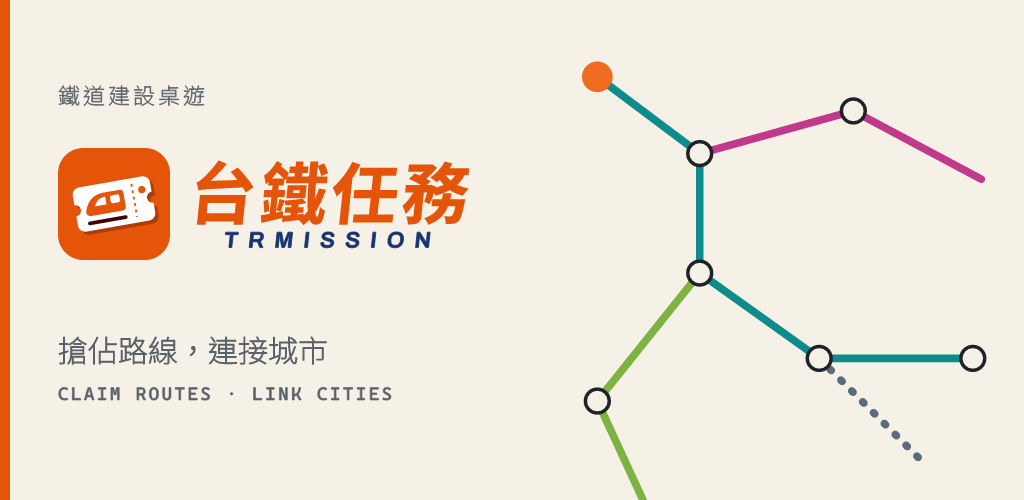
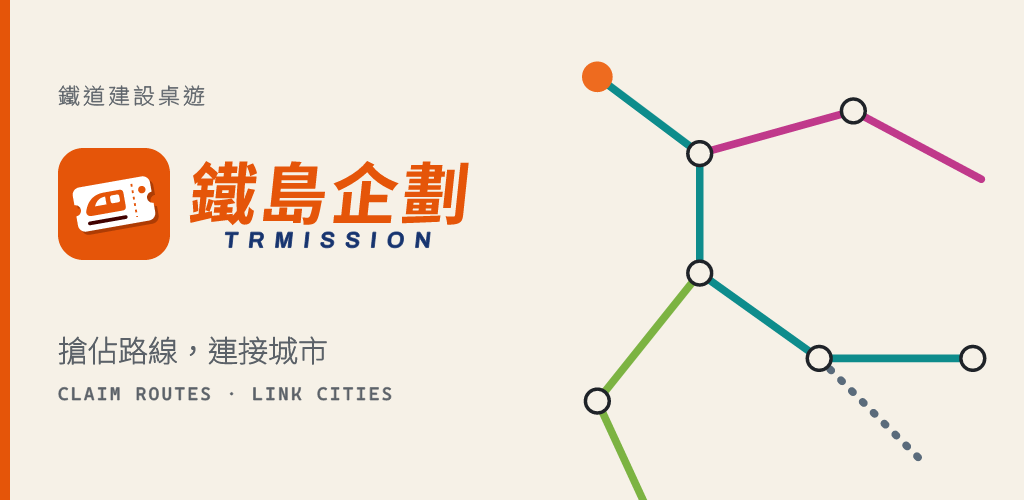
chore: rebrand the Chinese name to 鐵島企劃
台鐵任務 → 鐵島企劃 everywhere the name is the product: UI strings and SEO titles
on both clients, the BrandBanner/chrome wordmark, push titles, the OG card and
site title, the OpenAPI description, the App Store / Play listings in both
locales and the app.config device labels that must match them, plus the
rolling-stock art sheet's filename. Both marks are four glyphs, so the lockup
tracking and the OG card's width arithmetic are unchanged; the Play feature
graphic is regenerated from the same renderer.

Deliberately not renamed:

- the two legal disclaimers naming the real 臺灣鐵路公司（台鐵） — those are
  statements about a third party, not the brand;
- the dated plans and specs under docs/plans and docs/superpowers, which record
  what was decided at the time.

The tutorial's 台鐵的路線分成三種 and the iOS 台鐵 ASO keyword drop the old short
form as well: the point of the new name is not to lean on that mark.

Changed region(s): [[0.1875, 0.3, 0.4688, 0.45]]

diff --git a/apps/server/src/og/card-svg.ts b/apps/server/src/og/card-svg.ts
@@ -27,7 +27,7 @@ export const CARD_H = 630;
  * upstream file's own default, not something this file controls. `NotoSansTC-Banner750.ttf`
  * is a static instantiation of the same Noto Sans TC file pinned to wght=750 (via
  * `fonttools varLib.instancer --static`, same OFL licence — see LICENSES), used only for the
- * BrandBanner's 台鐵任務 line so it actually matches the live component's real 750-weight
+ * BrandBanner's 鐵島企劃 line so it actually matches the live component's real 750-weight
  * display treatment instead of silently rendering Thin. Archivo needed no such instance: its
  * baked default already matches the component's 600-weight `TRMISSION` line.
  */
@@ -36,7 +36,7 @@ export const OG_FONT_FILES: string[] = [
   join(FONTS_DIR, 'NotoSansTC-Variable.ttf'), // F_SANS — CJK + Latin display/body
   join(FONTS_DIR, 'CascadiaCode-Regular.ttf'), // F_MONO — labels, codes, numbers
   join(FONTS_DIR, 'Archivo-Variable.ttf'), // F_LATIN — the BrandBanner TRMISSION wordmark
-  join(FONTS_DIR, 'NotoSansTC-Banner750.ttf'), // F_SANS_BANNER — the BrandBanner 台鐵任務 line
+  join(FONTS_DIR, 'NotoSansTC-Banner750.ttf'), // F_SANS_BANNER — the BrandBanner 鐵島企劃 line
 ];
 
 // Brand tokens mirrored from apps/web/src/styles/tokens.css (light theme — social
@@ -52,7 +52,7 @@ const LINE = '#d9d0be';
 const READY_GREEN = '#1f8a5b';
 const AVATAR_HUMAN = '#8b8377';
 const AVATAR_BOT = '#5b6168';
-/** apps/web/src/components/BrandBanner.tsx wordmark colours — the 台鐵任務 line stays this
+/** apps/web/src/components/BrandBanner.tsx wordmark colours — the 鐵島企劃 line stays this
  *  orange (icon.svg's own accent) and TRMISSION stays brand navy, independent of the card's
  *  own ember accent. */
 const BANNER_ORANGE = '#e55509';
@@ -73,7 +73,7 @@ const F_SANS = "'Noto Sans TC',sans-serif";
 const F_MONO = "'Cascadia Code',monospace";
 const F_LATIN = "'Archivo',sans-serif";
 /** True 750-weight static instance — see `OG_FONT_FILES`'s comment for why this exists
- *  separately from `F_SANS` (only the BrandBanner's 台鐵任務 line needs real bold; every other
+ *  separately from `F_SANS` (only the BrandBanner's 鐵島企劃 line needs real bold; every other
  *  card text stays on the Thin-by-default `F_SANS` plus its faux-bold stroke, unchanged). */
 const F_SANS_BANNER = "'Noto Sans TC Banner',sans-serif";
 
@@ -210,7 +210,7 @@ interface Banner {
 }
 
 /**
- * The BrandBanner lockup (apps/web's icon.svg + stacked 台鐵任務／TRMISSION wordmark),
+ * The BrandBanner lockup (apps/web's icon.svg + stacked 鐵島企劃／TRMISSION wordmark),
  * reproduced as inline geometry: the CSS `skewX(-6deg)` on each line becomes an SVG
  * `skewX(-6)` transform, letter-spacing is carried over from the component's em values.
  * Shrinks (icon and both text lines scale together) until it fits `maxWidth`, so it never
@@ -236,7 +236,7 @@ function brandBanner(x: number, y: number, targetIconSize: number, maxWidth: num
     const zhSize = iconSize * (48 / 80);
     const enSize = iconSize * (16 / 80);
     const zhSpacing = zhSize * 0.056;
-    const zhWidth = estimateWidth('台鐵任務', zhSize) + zhSpacing * 3;
+    const zhWidth = estimateWidth('鐵島企劃', zhSize) + zhSpacing * 3;
     return { iconSize, gap, zhSize, enSize, zhSpacing, zhWidth, total: iconSize + gap + zhWidth };
   };
   let m = measure(targetIconSize);
@@ -260,7 +260,7 @@ function brandBanner(x: number, y: number, targetIconSize: number, maxWidth: num
   // keeps text()'s plain default treatment like every other piece of text on every other card.
   const markup =
     `<g transform="translate(${x} ${y}) scale(${m.iconSize / 120})">${ICON_MARK}</g>` +
-    `<g transform="translate(${textX} ${zhBaseline}) skewX(-6)">${text(0, 0, m.zhSize, BANNER_ORANGE, '台鐵任務', { spacing: m.zhSpacing, font: F_SANS_BANNER, boldStroke: 0 })}</g>` +
+    `<g transform="translate(${textX} ${zhBaseline}) skewX(-6)">${text(0, 0, m.zhSize, BANNER_ORANGE, '鐵島企劃', { spacing: m.zhSpacing, font: F_SANS_BANNER, boldStroke: 0 })}</g>` +
     `<g transform="translate(${zhCenterX} ${enBaseline}) skewX(-6)">${text(0, 0, m.enSize, BANNER_NAVY, 'TRMISSION', { anchor: 'middle', spacing: enSpacing, font: F_LATIN })}</g>`;
 
   return { width: m.iconSize + m.gap + m.zhWidth, height: m.iconSize, markup };

diff --git a/apps/web/index.html b/apps/web/index.html
@@ -6,7 +6,7 @@
     <link rel="icon" href="%BASE_URL%favicon.png" sizes="any" />
     <link rel="icon" href="%BASE_URL%icon.svg" type="image/svg+xml" />
     <link rel="apple-touch-icon" href="%BASE_URL%favicon.png" />
-    <title>台鐵任務 TRMission</title>
+    <title>鐵島企劃 TRMission</title>
     <!-- Static fallback meta. Recognized link-preview crawlers hitting /, /room/* or /replay/*
          are routed (by nginx in prod, a Vite dev-server plugin in dev) to the server's OG
          renderer instead, which serves a per-link title/description and a purpose-built card
@@ -20,8 +20,8 @@
       content="搶佔台灣鐵道路線 — 鋪設路線、連接城市、完成任務。A railway board game set in Taiwan: claim routes, link cities, complete missions."
     />
     <meta property="og:type" content="website" />
-    <meta property="og:site_name" content="台鐵任務 TRMission" />
-    <meta property="og:title" content="台鐵任務 TRMission" />
+    <meta property="og:site_name" content="鐵島企劃 TRMission" />
+    <meta property="og:title" content="鐵島企劃 TRMission" />
     <meta
       property="og:description"
       content="搶佔台灣鐵道路線 — 鋪設路線、連接城市、完成任務。A railway board game set in Taiwan: claim routes, link cities, complete missions."
@@ -31,12 +31,12 @@
     <meta property="og:image:height" content="630" />
     <meta
       property="og:image:alt"
-      content="台鐵任務 TRMission — 台灣鐵道桌遊分享卡片 / TRMission Taiwan railway board game preview card"
+      content="鐵島企劃 TRMission — 台灣鐵道桌遊分享卡片 / TRMission Taiwan railway board game preview card"
     />
     <meta property="og:locale" content="zh_TW" />
     <meta property="og:locale:alternate" content="en_US" />
     <meta name="twitter:card" content="summary_large_image" />
-    <meta name="twitter:title" content="台鐵任務 TRMission" />
+    <meta name="twitter:title" content="鐵島企劃 TRMission" />
     <meta
       name="twitter:description"
       content="搶佔台灣鐵道路線 — 鋪設路線、連接城市、完成任務。A railway board game set in Taiwan: claim routes, link cities, complete missions."
@@ -44,7 +44,7 @@
     <meta name="twitter:image" content="/api/v1/og/site.png" />
     <meta
       name="twitter:image:alt"
-      content="台鐵任務 TRMission — 台灣鐵道桌遊分享卡片 / TRMission Taiwan railway board game preview card"
+      content="鐵島企劃 TRMission — 台灣鐵道桌遊分享卡片 / TRMission Taiwan railway board game preview card"
     />
     <meta name="theme-color" media="(prefers-color-scheme: light)" content="#f6f1e7" />
     <meta name="theme-color" media="(prefers-color-scheme: dark)" content="#1a1c1f" />
@@ -66,9 +66,9 @@
   <body>
     <div id="root"></div>
     <noscript>
-      <h1>台鐵任務 TRMission</h1>
+      <h1>鐵島企劃 TRMission</h1>
       <p>
-        《台鐵任務》是一款免費的線上多人鐵道桌遊：收集車廂卡、佔領台灣城市之間的路線、完成任務卡。
+        《鐵島企劃》是一款免費的線上多人鐵道桌遊：收集車廂卡、佔領台灣城市之間的路線、完成任務卡。
         支援 2–5 人連線對戰、機器人陪練、觀戰與對局回放。需要啟用 JavaScript 才能遊玩。
       </p>
       <p>

diff --git a/apps/web/src/i18n/zh-Hant/seo.ts b/apps/web/src/i18n/zh-Hant/seo.ts
@@ -2,28 +2,28 @@
 // indexable public pages — everything else is noindex.
 export default {
   titles: {
-    home: '台鐵任務 TRMission — 台灣鐵道路線桌遊',
-    login: '登入 · 台鐵任務 TRMission',
-    tutorial: '新手教學 · 台鐵任務 TRMission',
-    history: '對局紀錄 · 台鐵任務 TRMission',
-    leaderboard: '排行榜 · 台鐵任務 TRMission',
-    replay: '對局重播 · 台鐵任務 TRMission',
-    room: '房間 {{code}} · 台鐵任務 TRMission',
-    game: '對局進行中 · 台鐵任務 TRMission',
-    maps: '自訂地圖 · 台鐵任務 TRMission',
-    mapEditor: '地圖編輯器 · 台鐵任務 TRMission',
-    support: '支援與說明 · 台鐵任務 TRMission',
-    privacy: '隱私權政策 · 台鐵任務 TRMission',
-    terms: '服務條款 · 台鐵任務 TRMission',
-    deleteAccount: '刪除帳號 · 台鐵任務 TRMission',
+    home: '鐵島企劃 TRMission — 台灣鐵道路線桌遊',
+    login: '登入 · 鐵島企劃 TRMission',
+    tutorial: '新手教學 · 鐵島企劃 TRMission',
+    history: '對局紀錄 · 鐵島企劃 TRMission',
+    leaderboard: '排行榜 · 鐵島企劃 TRMission',
+    replay: '對局重播 · 鐵島企劃 TRMission',
+    room: '房間 {{code}} · 鐵島企劃 TRMission',
+    game: '對局進行中 · 鐵島企劃 TRMission',
+    maps: '自訂地圖 · 鐵島企劃 TRMission',
+    mapEditor: '地圖編輯器 · 鐵島企劃 TRMission',
+    support: '支援與說明 · 鐵島企劃 TRMission',
+    privacy: '隱私權政策 · 鐵島企劃 TRMission',
+    terms: '服務條款 · 鐵島企劃 TRMission',
+    deleteAccount: '刪除帳號 · 鐵島企劃 TRMission',
   },
   descriptions: {
     home: '免費線上多人鐵道桌遊：收集車廂卡、佔領台灣城市之間的路線、完成任務卡。支援 2–5 人連線對戰、組隊模式、機器人陪練、觀戰與對局回放。',
-    login: '登入台鐵任務 — 以訪客、電子郵件、Google 或 Discord 帳號開始遊戲。',
+    login: '登入鐵島企劃 — 以訪客、電子郵件、Google 或 Discord 帳號開始遊戲。',
     tutorial: '5 分鐘互動教學：學會抽車廂卡、佔領路線與任務計分。免登入即可開始。',
     support:
-      '台鐵任務的支援頁面：常見問題、聯絡表單、Discord 社群與電子郵件——回報問題、帳號協助或提出建議。',
-    privacy: '台鐵任務的隱私權政策：我們收集哪些資料、如何使用，以及如何刪除帳號與資料。',
-    terms: '台鐵任務的服務條款：帳號規範、使用規則、使用者產生內容、免責聲明與聯絡方式。',
+      '鐵島企劃的支援頁面：常見問題、聯絡表單、Discord 社群與電子郵件——回報問題、帳號協助或提出建議。',
+    privacy: '鐵島企劃的隱私權政策：我們收集哪些資料、如何使用，以及如何刪除帳號與資料。',
+    terms: '鐵島企劃的服務條款：帳號規範、使用規則、使用者產生內容、免責聲明與聯絡方式。',
   },
 };

diff --git a/apps/mobile/app.config.ts b/apps/mobile/app.config.ts
@@ -178,18 +178,18 @@ const config: ExpoConfig = {
   // The DEFAULT name the OS shows under the icon (CFBundleDisplayName / Android app_name) — the
   // per-locale labels are in `locales` below, and this is what every locale not listed there falls
   // back to. It MUST contain the store listing's name: App Review rejected 'TRMission' under
-  // Guideline 2.3.8 because the marketplace name in the app's primary language is 台鐵任務 and a
-  // device label of 'TRMission' gave users nothing to match it against. Bilingual — not 台鐵任務
+  // Guideline 2.3.8 because the marketplace name in the app's primary language is 鐵島企劃 and a
+  // device label of 'TRMission' gave users nothing to match it against. Bilingual — not 鐵島企劃
   // alone — for two reasons:
   //   * a fallback has to satisfy 2.3.8 against BOTH listings at once, and they disagree on which
-  //     half leads (App Store en-US `TRMission 台鐵任務`, zh-Hant `台鐵任務`; Play zh-TW is this
+  //     half leads (App Store en-US `TRMission 鐵島企劃`, zh-Hant `鐵島企劃`; Play zh-TW is this
   //     exact string) — fastlane/metadata/{ios,android}/*/{name,title}.txt, and
   //   * the Xcode project/scheme/PRODUCT_NAME are `IOSConfig.XcodeUtils.sanitizedName(name)`, which
-  //     strips every non-`\w` character: '台鐵任務 TRMission' → 'TRMission' (unchanged, so the
+  //     strips every non-`\w` character: '鐵島企劃 TRMission' → 'TRMission' (unchanged, so the
   //     hardcoded ios/TRMission.xcworkspace + scheme in fastlane/Fastfile keep resolving), but
-  //     '台鐵任務' → '' → the fallback literal 'app', which would rename the whole project and
+  //     '鐵島企劃' → '' → the fallback literal 'app', which would rename the whole project and
   //     break every iOS lane. Keep an ASCII token in this string; app.config.test.ts pins it.
-  name: '台鐵任務 TRMission',
+  name: '鐵島企劃 TRMission',
   // Per-locale device labels, each EQUAL to that locale's store listing name. 2.3.8 is a
   // listing-vs-device comparison, so matching them locale-for-locale is the strongest answer to it:
   // the sources are fastlane/metadata/ios/{en-US,zh-Hant}/name.txt, and app.config.test.ts reads
@@ -200,10 +200,10 @@ const config: ExpoConfig = {
   // Welcome side effect: the App Store product page derives its "Languages" list from the .lproj
   // folders in the bundle, so the listing now advertises the two languages the UI actually ships.
   locales: {
-    'zh-Hant': { ios: { CFBundleDisplayName: '台鐵任務' }, android: { app_name: '台鐵任務' } },
+    'zh-Hant': { ios: { CFBundleDisplayName: '鐵島企劃' }, android: { app_name: '鐵島企劃' } },
     en: {
-      ios: { CFBundleDisplayName: 'TRMission 台鐵任務' },
-      android: { app_name: 'TRMission 台鐵任務' },
+      ios: { CFBundleDisplayName: 'TRMission 鐵島企劃' },
+      android: { app_name: 'TRMission 鐵島企劃' },
     },
   },
   slug: 'trmission',

diff --git a/packages/client-core/src/i18n/locales/zh-Hant/tutorial.ts b/packages/client-core/src/i18n/locales/zh-Hant/tutorial.ts
@@ -2,7 +2,7 @@
 // city/ticket names still resolve from the content catalog, not from here.
 export default {
   title: '教學',
-  intro: '透過實際操作學習台鐵任務的規則。選擇課程深度：',
+  intro: '透過實際操作學習鐵島企劃的規則。選擇課程深度：',
   full: '完整教學',
   fullDesc: '涵蓋所有規則：抽牌、宣告路線、渡輪與隧道、車站、任務卡、最長路線與結算。',
   quickstart: '快速上手',
@@ -26,12 +26,12 @@ export default {
   steps: '{{n}} 步',
   createGame: '建立第一場遊戲',
   finalTitle: '教學完成！',
-  finalBody: '你已經學會台鐵任務的所有規則。建立你的第一場遊戲，開始與好友或機器人對戰吧！',
+  finalBody: '你已經學會鐵島企劃的所有規則。建立你的第一場遊戲，開始與好友或機器人對戰吧！',
 
   welcome: {
     title: '歡迎',
     blurb: '遊戲目標與基本概念。',
-    goal: '歡迎來到台鐵任務！在台灣的鐵道網上搶占路線、完成祕密任務卡，得分最高者獲勝。',
+    goal: '歡迎來到鐵島企劃！在台灣的鐵道網上搶占路線、完成祕密任務卡，得分最高者獲勝。',
     map: '這是地圖：46 座城市（39 座本島 + 7 座離島），由一段段路線相連。可以拖曳與縮放來探索。',
     score: '分數來自四個地方：宣告的路線、完成的任務卡、未使用的車站獎勵，以及最長的連續路線。',
     draft:
@@ -58,7 +58,7 @@ export default {
   special: {
     title: '特殊路線',
     blurb: '雙線、渡輪與隧道的規則。',
-    intro: '台鐵的路線分成三種：一般鐵路、跨海渡輪與穿山隧道。下面比較它們的外觀：',
+    intro: '本作的路線分成三種：一般鐵路、跨海渡輪與穿山隧道。下面比較它們的外觀：',
     double:
       '雙線路線：兩座城市之間有兩條平行線。2–3 人時，一條被占下、另一條就鎖住；4–5 人時兩條都可用。同一方只能佔用同組中的一條——組隊模式下，隊友佔下的那條也算你的。',
     ferry: '渡輪路線（通往離島）：支付時必須包含「足夠數量的彩色車頭」，圖示會標明需要幾個。',

diff --git a/apps/web/src/i18n/en/seo.ts b/apps/web/src/i18n/en/seo.ts
@@ -5,20 +5,20 @@ import type zh from '../zh-Hant/seo';
 // indexable public pages — everything else is noindex.
 export default {
   titles: {
-    home: 'TRMission 台鐵任務 — a Taiwan railway board game',
-    login: 'Sign in · TRMission 台鐵任務',
-    tutorial: 'Tutorial · TRMission 台鐵任務',
-    history: 'Match history · TRMission 台鐵任務',
-    leaderboard: 'Leaderboard · TRMission 台鐵任務',
-    replay: 'Replay · TRMission 台鐵任務',
-    room: 'Room {{code}} · TRMission 台鐵任務',
-    game: 'Game in progress · TRMission 台鐵任務',
-    maps: 'Custom maps · TRMission 台鐵任務',
-    mapEditor: 'Map editor · TRMission 台鐵任務',
-    support: 'Help & support · TRMission 台鐵任務',
-    privacy: 'Privacy policy · TRMission 台鐵任務',
-    terms: 'Terms of service · TRMission 台鐵任務',
-    deleteAccount: 'Delete account · TRMission 台鐵任務',
+    home: 'TRMission 鐵島企劃 — a Taiwan railway board game',
+    login: 'Sign in · TRMission 鐵島企劃',
+    tutorial: 'Tutorial · TRMission 鐵島企劃',
+    history: 'Match history · TRMission 鐵島企劃',
+    leaderboard: 'Leaderboard · TRMission 鐵島企劃',
+    replay: 'Replay · TRMission 鐵島企劃',
+    room: 'Room {{code}} · TRMission 鐵島企劃',
+    game: 'Game in progress · TRMission 鐵島企劃',
+    maps: 'Custom maps · TRMission 鐵島企劃',
+    mapEditor: 'Map editor · TRMission 鐵島企劃',
+    support: 'Help & support · TRMission 鐵島企劃',
+    privacy: 'Privacy policy · TRMission 鐵島企劃',
+    terms: 'Terms of service · TRMission 鐵島企劃',
+    deleteAccount: 'Delete account · TRMission 鐵島企劃',
   },
   descriptions: {
     home: 'A free online multiplayer railway board game set in Taiwan: collect train-car cards, claim routes between cities, and complete mission tickets. Live games for 2–5 players plus team mode, bots to practise against, spectating, and replays.',

diff --git a/apps/web/src/components/AppHeader.test.tsx b/apps/web/src/components/AppHeader.test.tsx
@@ -41,7 +41,7 @@ describe('AppHeader brand + leave confirmation (desktop)', () => {
     useSession.setState({ user: { ...signedIn } });
     useUi.setState({ view: 'history' });
     render(<AppHeader />);
-    fireEvent.click(screen.getByRole('button', { name: /台鐵任務/ }));
+    fireEvent.click(screen.getByRole('button', { name: /鐵島企劃/ }));
     expect(useUi.getState().view).toBe('home');
     expect(screen.queryByRole('dialog')).toBeNull();
   });
@@ -50,7 +50,7 @@ describe('AppHeader brand + leave confirmation (desktop)', () => {
     useSession.setState({ user: { ...signedIn } });
     useUi.setState({ view: 'room', roomCode: 'ABCD' });
     render(<AppHeader />);
-    fireEvent.click(screen.getByRole('button', { name: /台鐵任務/ }));
+    fireEvent.click(screen.getByRole('button', { name: /鐵島企劃/ }));
     expect(useUi.getState().view).toBe('room');
     expect(screen.getByRole('dialog')).toBeInTheDocument();
     fireEvent.click(screen.getByRole('button', { name: '確認' }));
@@ -62,7 +62,7 @@ describe('AppHeader brand + leave confirmation (desktop)', () => {
     useUi.setState({ view: 'game' });
     useGame.setState({ snapshot: gameSnap() });
     render(<AppHeader />);
-    fireEvent.click(screen.getByRole('button', { name: /台鐵任務/ }));
+    fireEvent.click(screen.getByRole('button', { name: /鐵島企劃/ }));
     expect(screen.getByRole('dialog')).toBeInTheDocument();
     fireEvent.click(screen.getByRole('button', { name: '取消' }));
     expect(screen.queryByRole('dialog')).toBeNull();

diff --git a/apps/web/src/screens/TermsScreen.tsx b/apps/web/src/screens/TermsScreen.tsx
@@ -15,7 +15,7 @@ export function TermsScreen() {
       <p className="muted">最後更新 · Last updated: 2026-07-25</p>
 
       <p>
-        歡迎使用《台鐵任務 TRMission》（以下稱「本服務」）。註冊、登入或以訪客身分遊玩，
+        歡迎使用《鐵島企劃 TRMission》（以下稱「本服務」）。註冊、登入或以訪客身分遊玩，
         即表示你同意本條款；若不同意，請勿使用本服務。本條款應與
         <a href="/privacy">隱私權政策</a>一併閱讀。
         <br />
@@ -112,7 +112,7 @@ export function TermsScreen() {
 
       <h3>智慧財產與獨立性 · Intellectual property &amp; independence</h3>
       <p>
-        本服務的地圖、美術、文字與程式為原創作品。《台鐵任務》是愛好者製作的原創遊戲，
+        本服務的地圖、美術、文字與程式為原創作品。《鐵島企劃》是愛好者製作的原創遊戲，
         與臺灣鐵路公司（台鐵）無關，亦非其官方產品，且未獲任何桌遊出版商之贊助或背書；
         遊戲中使用的台灣地名僅為地理指涉。除本條款明文授權外，你不得重製或散布本服務的內容。
         <br />

diff --git a/apps/web/src/i18n/zh-Hant/landing.ts b/apps/web/src/i18n/zh-Hant/landing.ts
@@ -3,7 +3,7 @@ export default {
   eyebrow: '線上多人鐵道桌遊 · 免費遊玩',
   // \n + `white-space: pre-line` controls the break — CJK auto-wrap would split 路線 mid-word.
   title: '在台灣鐵道上\n搶占路線、完成任務',
-  lede: '《台鐵任務》是一款以台灣鐵路為靈感的線上桌上遊戲：收集車廂卡、佔下城市之間的路段，把任務卡上的起訖點連成一氣。支援 2–5 人連線對戰（組隊模式最多 6 人）、機器人陪練與觀戰。',
+  lede: '《鐵島企劃》是一款以台灣鐵路為靈感的線上桌上遊戲：收集車廂卡、佔下城市之間的路段，把任務卡上的起訖點連成一氣。支援 2–5 人連線對戰（組隊模式最多 6 人）、機器人陪練與觀戰。',
   departures: {
     title: '即將發車',
     tutorialDest: '新手教學',
@@ -54,6 +54,6 @@ export default {
   },
   langSwitch: 'English',
   footer: {
-    disclaimer: '《台鐵任務》為原創之愛好者作品，與臺灣鐵路公司（台鐵）無關，亦非其官方產品。',
+    disclaimer: '《鐵島企劃》為原創之愛好者作品，與臺灣鐵路公司（台鐵）無關，亦非其官方產品。',
   },
 };

diff --git a/apps/server/src/push/push.service.ts b/apps/server/src/push/push.service.ts
@@ -44,19 +44,19 @@ export type RoomCodeResolver = (gameId: string) => Promise<string | null>;
 
 const STRINGS: Record<PushKind, Record<PushLocale, { title: string; body: string }>> = {
   your_turn: {
-    'zh-Hant': { title: '台鐵任務', body: '輪到你了！' },
+    'zh-Hant': { title: '鐵島企劃', body: '輪到你了！' },
     en: { title: 'TRMission', body: "It's your turn!" },
   },
   game_started: {
-    'zh-Hant': { title: '台鐵任務', body: '對局開始了！' },
+    'zh-Hant': { title: '鐵島企劃', body: '對局開始了！' },
     en: { title: 'TRMission', body: 'Your game has started!' },
   },
   game_over: {
-    'zh-Hant': { title: '台鐵任務', body: '對局結束了，來看看結果吧！' },
+    'zh-Hant': { title: '鐵島企劃', body: '對局結束了，來看看結果吧！' },
     en: { title: 'TRMission', body: 'The game is over — see the results!' },
   },
   game_paused: {
-    'zh-Hant': { title: '台鐵任務', body: '對局暫停中，等你回來繼續！' },
+    'zh-Hant': { title: '鐵島企劃', body: '對局暫停中，等你回來繼續！' },
     en: { title: 'TRMission', body: 'Your game is paused — come back to resume!' },
   },
 };

diff --git a/apps/web/src/lib/analytics.test.ts b/apps/web/src/lib/analytics.test.ts
@@ -73,7 +73,7 @@ describe('analytics.track', () => {
   it('trackPageView never leaks the room code from document.title', () => {
     const spy = vi.fn();
     (window as unknown as Win).zaraz = { track: spy };
-    document.title = 'Room ABCD · TRMission 台鐵任務';
+    document.title = 'Room ABCD · TRMission 鐵島企劃';
     for (const view of ALL_VIEWS) trackPageView(view);
     expect(spy).toHaveBeenCalledTimes(ALL_VIEWS.length);
     for (const [, params] of spy.mock.calls) {
@@ -85,9 +85,9 @@ describe('analytics.track', () => {
   it('trackPageView sends a constant per-screen title', () => {
     const spy = vi.fn();
     (window as unknown as Win).zaraz = { track: spy };
-    document.title = 'Room ABCD · TRMission 台鐵任務';
+    document.title = 'Room ABCD · TRMission 鐵島企劃';
     trackPageView('room');
-    document.title = 'Game in progress · TRMission 台鐵任務';
+    document.title = 'Game in progress · TRMission 鐵島企劃';
     trackPageView('room');
     expect(spy.mock.calls[0]![1]).toEqual(spy.mock.calls[1]![1]);
     expect(spy).toHaveBeenCalledWith(

diff --git a/apps/server/src/og/og.service.ts b/apps/server/src/og/og.service.ts
@@ -26,7 +26,7 @@ import {
   type ReplayCardPlayer,
 } from './card-svg';
 
-const SITE_TITLE = '台鐵任務 TRMission';
+const SITE_TITLE = '鐵島企劃 TRMission';
 const SITE_DESCRIPTION =
   '搶佔台灣鐵道路線 — 鋪設路線、連接城市、完成任務。A railway board game set in Taiwan: claim routes, link cities, complete missions.';
 
@@ -139,7 +139,7 @@ export class OgService {
       return {
         title: `加入房間 ${view.code} · ${SITE_TITLE}`,
         description:
-          `${host ? `${host.displayName} 邀請你加入台鐵任務！` : '邀請你加入台鐵任務！'}` +
+          `${host ? `${host.displayName} 邀請你加入鐵島企劃！` : '邀請你加入鐵島企劃！'}` +
           `${view.members.length}/${view.maxPlayers} 位玩家${mapBit}. Join the game at room code ${view.code}.`,
         imagePath: `/api/v1/og/room/${encodeURIComponent(view.code)}.png`,
         path,
